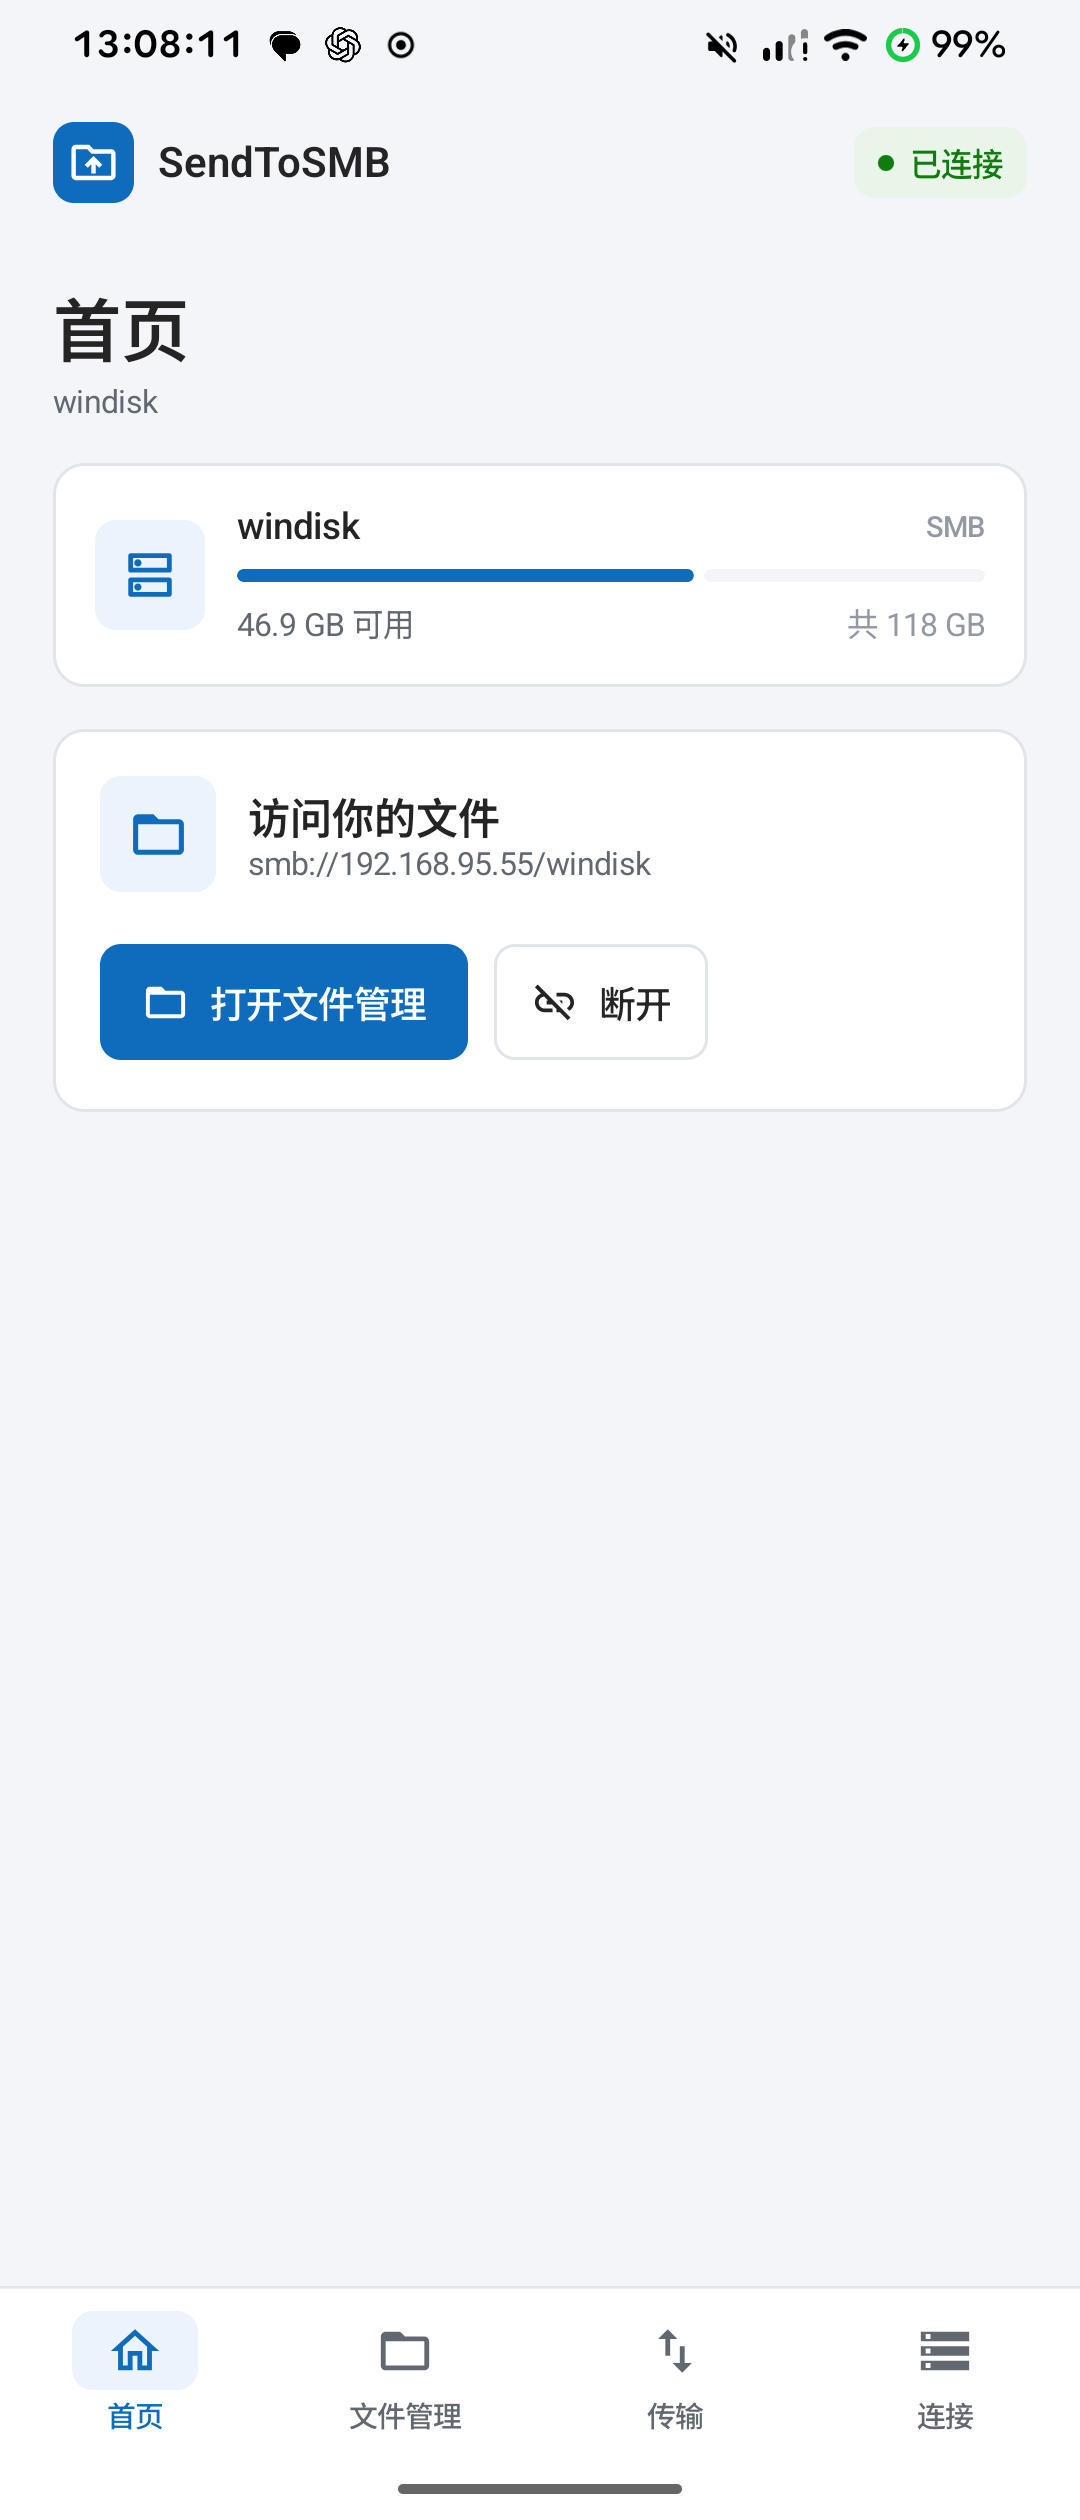
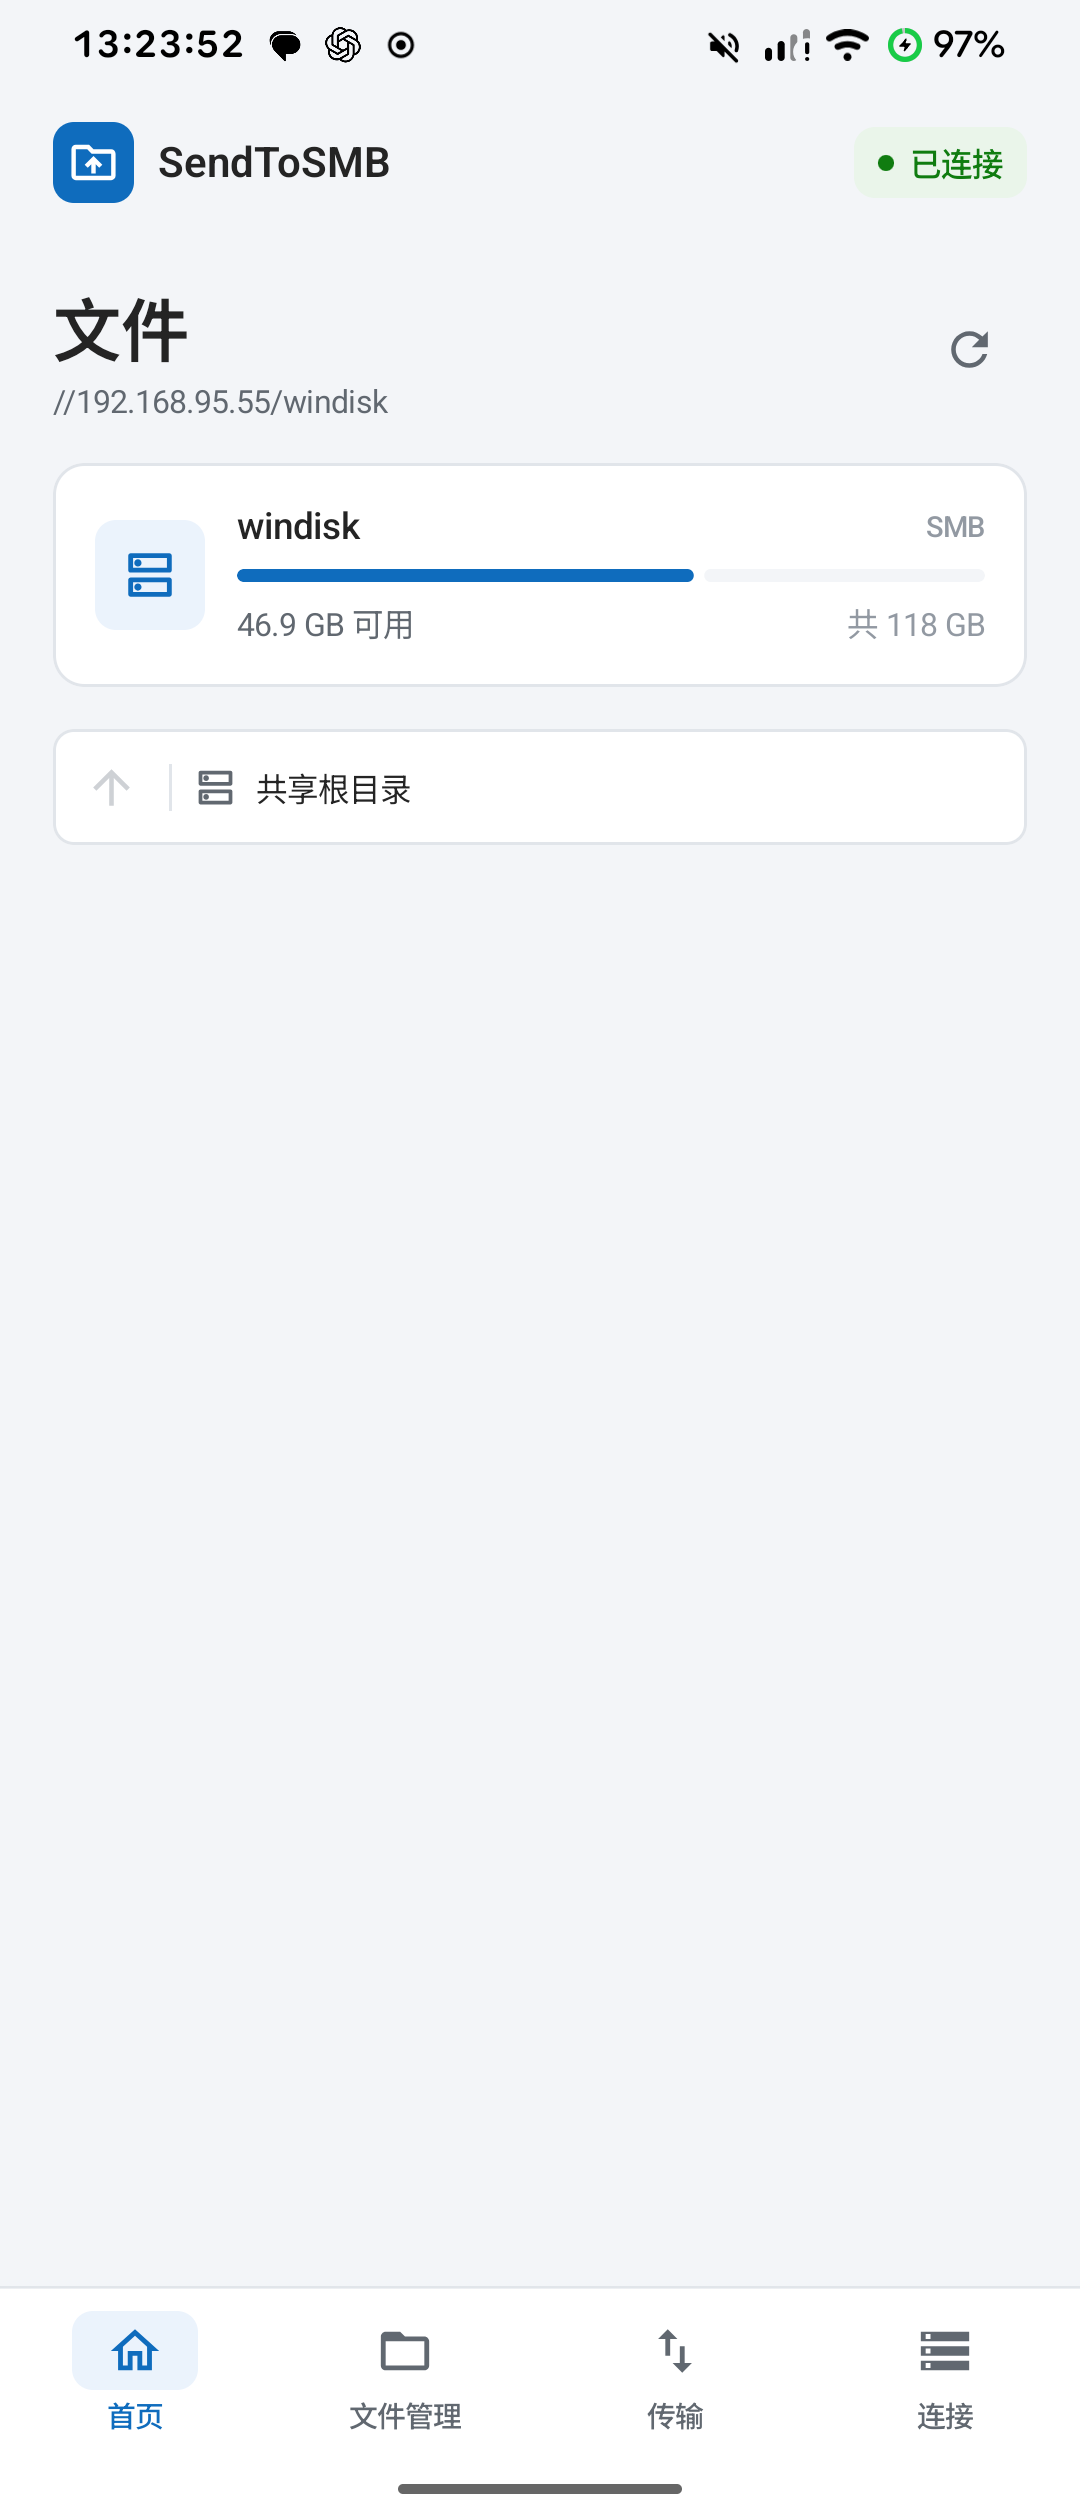
fix: separate file list from home overview

diff --git a/app/src/main/java/com/zlight/sendtosmb/ui/HomePage.kt b/app/src/main/java/com/zlight/sendtosmb/ui/HomePage.kt
@@ -4,7 +4,6 @@ import androidx.compose.foundation.BorderStroke
 import androidx.compose.foundation.background
 import androidx.compose.foundation.layout.*
 import androidx.compose.foundation.lazy.LazyColumn
-import androidx.compose.foundation.lazy.items
 import androidx.compose.material.icons.Icons
 import androidx.compose.material.icons.outlined.*
 import androidx.compose.material3.*
@@ -13,6 +12,7 @@ import androidx.compose.ui.Alignment
 import androidx.compose.ui.Modifier
 import androidx.compose.ui.draw.clip
 import androidx.compose.ui.graphics.Color
+import androidx.compose.ui.graphics.vector.ImageVector
 import androidx.compose.ui.text.style.TextAlign
 import androidx.compose.ui.text.style.TextOverflow
 import androidx.compose.ui.unit.dp
@@ -26,14 +26,19 @@ internal fun HomePage(
     onOpenFiles: () -> Unit,
 ) {
     val profile = state.profiles.firstOrNull { it.id == state.currentProfileId }
-    val recent = state.transfers.filterNot { it.status == "running" || it.status == "queued" }
-        .sortedByDescending { it.createdMillis }.take(3)
     LazyColumn(
         Modifier.fillMaxSize(),
         contentPadding = PaddingValues(horizontal = if (wide) 28.dp else 20.dp, vertical = 16.dp),
         verticalArrangement = Arrangement.spacedBy(16.dp),
     ) {
-        item { PageHeading("首页", if (state.connected) profile?.name ?: "共享文件夹" else "你的文件，在每一台设备之间") }
+        item {
+            PageHeading(
+                "文件",
+                if (state.connected) profile?.url?.removePrefix("smb:") ?: "共享文件夹" else "你的文件，在每一台设备之间",
+            ) {
+                if (state.connected) ToolIcon(Icons.Outlined.Refresh, "刷新共享信息", enabled = !state.loading) { onAction(UiAction.Refresh) }
+            }
+        }
         if (!state.connected) {
             item {
                 FluentCard(Modifier.fillMaxWidth()) {
@@ -80,41 +85,32 @@ internal fun HomePage(
                     }
                 }
             }
+            item { CapacityCard(null, "网络存储空间", false, Modifier.fillMaxWidth()) }
+            item {
+                Row(Modifier.fillMaxWidth().padding(horizontal = 4.dp, vertical = 8.dp), horizontalArrangement = Arrangement.SpaceBetween) {
+                    IntroFeature(Icons.Outlined.Lock, "本机加密凭据")
+                    IntroFeature(Icons.Outlined.SwapVert, "双向文件传输")
+                    IntroFeature(Icons.Outlined.Devices, "手机与平板")
+                }
+            }
         } else {
             item { CapacityCard(state.capacity, profile?.name ?: "网络存储", true, Modifier.fillMaxWidth()) }
             item {
-                FluentCard(Modifier.fillMaxWidth()) {
-                    Column(Modifier.fillMaxWidth().padding(18.dp)) {
-                        Row(verticalAlignment = Alignment.CenterVertically) {
-                            AccentIcon(Icons.Outlined.FolderOpen, 44)
-                            Spacer(Modifier.width(12.dp))
-                            Column(Modifier.weight(1f)) {
-                                Text("访问你的文件", style = MaterialTheme.typography.titleMedium)
-                                Text(profile?.url.orEmpty(), style = MaterialTheme.typography.bodySmall, color = Fluent.Secondary, maxLines = 2, overflow = TextOverflow.Ellipsis)
-                            }
-                        }
-                        Spacer(Modifier.height(18.dp))
-                        Row(horizontalArrangement = Arrangement.spacedBy(10.dp)) {
-                            PrimaryButton("打开文件管理", Icons.Outlined.FolderOpen, onClick = onOpenFiles)
-                            SecondaryButton("断开", Icons.Outlined.LinkOff) { onAction(UiAction.Disconnect) }
-                        }
-                    }
-                }
-            }
-        }
-        if (recent.isNotEmpty()) {
-            item { Text("最近传输", style = MaterialTheme.typography.titleSmall, color = Fluent.Secondary) }
-            items(recent, key = { it.id }) { transfer ->
-                FluentCard(Modifier.fillMaxWidth()) {
-                    Row(Modifier.fillMaxWidth().padding(14.dp), verticalAlignment = Alignment.CenterVertically) {
-                        Icon(if (transfer.direction == "upload") Icons.Outlined.Upload else Icons.Outlined.Download, null, Modifier.size(21.dp), tint = if (transfer.status == "completed") Fluent.Green else Fluent.Secondary)
-                        Spacer(Modifier.width(11.dp))
-                        Text(transfer.name, Modifier.weight(1f), style = MaterialTheme.typography.bodyMedium, maxLines = 1, overflow = TextOverflow.Ellipsis)
-                        Text(if (transfer.status == "completed") "已完成" else if (transfer.status == "failed") "失败" else "已取消", style = MaterialTheme.typography.bodySmall, color = Fluent.Muted)
-                    }
+                Breadcrumbs(state.path, "共享根目录") { action ->
+                    onAction(action)
+                    onOpenFiles()
                 }
             }
         }
         item { Spacer(Modifier.height(4.dp)) }
+    }
+}
+
+@Composable
+private fun IntroFeature(icon: ImageVector, title: String) {
+    Column(horizontalAlignment = Alignment.CenterHorizontally) {
+        Icon(icon, null, Modifier.size(20.dp), tint = Fluent.Secondary)
+        Spacer(Modifier.height(7.dp))
+        Text(title, style = MaterialTheme.typography.labelSmall, color = Fluent.Secondary)
     }
 }

diff --git a/app/src/main/java/com/zlight/sendtosmb/ui/ExplorerPage.kt b/app/src/main/java/com/zlight/sendtosmb/ui/ExplorerPage.kt
@@ -69,25 +69,21 @@ internal fun ExplorerPage(state: UiState, wide: Boolean, onAction: (UiAction) ->
     }
 
     Column(Modifier.fillMaxSize().padding(horizontal = if (wide) 28.dp else 20.dp)) {
-        if (!keyboardVisible) {
+        if (!state.connected && !keyboardVisible) {
             Spacer(Modifier.height(16.dp))
-            PageHeading("文件管理", if (state.connected) currentProfile?.name ?: "共享文件夹" else "连接后管理共享文件") {
-                if (state.connected) ToolIcon(Icons.Outlined.Refresh, "刷新文件夹", enabled = !state.loading) { onAction(UiAction.Refresh) }
-            }
+            PageHeading("文件管理", "连接后管理共享文件")
             Spacer(Modifier.height(18.dp))
         }
         if (!state.connected) {
             FileManagerDisconnected(state, onAction, onConnect)
         } else {
-            if (!keyboardVisible && wide) {
-                Row(Modifier.fillMaxWidth(), horizontalArrangement = Arrangement.spacedBy(16.dp), verticalAlignment = Alignment.CenterVertically) {
-                    Box(Modifier.weight(1f)) { Breadcrumbs(state.path, currentProfile?.name ?: "共享根目录", onAction) }
-                    CapacityCard(state.capacity, currentProfile?.name ?: "网络存储", true, Modifier.width(330.dp))
-                }
-            } else if (!keyboardVisible) {
-                CapacityCard(state.capacity, currentProfile?.name ?: "网络存储", true, Modifier.fillMaxWidth())
+            if (!keyboardVisible) {
                 Spacer(Modifier.height(12.dp))
-                Breadcrumbs(state.path, "共享根目录", onAction)
+                Row(Modifier.fillMaxWidth(), verticalAlignment = Alignment.CenterVertically) {
+                    Box(Modifier.weight(1f)) { Breadcrumbs(state.path, currentProfile?.name ?: "共享根目录", onAction) }
+                    Spacer(Modifier.width(6.dp))
+                    ToolIcon(Icons.Outlined.Refresh, "刷新文件夹", enabled = !state.loading) { onAction(UiAction.Refresh) }
+                }
             }
             Spacer(Modifier.height(12.dp))
             OutlinedTextField(search, { search = it }, Modifier.fillMaxWidth().heightIn(min = 48.dp),
@@ -194,7 +190,7 @@ private fun FileManagerDisconnected(state: UiState, onAction: (UiAction) -> Unit
 }
 
 @Composable
-private fun Breadcrumbs(path: String, rootName: String, onAction: (UiAction) -> Unit) {
+internal fun Breadcrumbs(path: String, rootName: String, onAction: (UiAction) -> Unit) {
     val segments = path.trim('/').split('/').filter { it.isNotBlank() }
     Surface(shape = Fluent.Control, color = Color.White, border = BorderStroke(1.dp, Fluent.Border)) {
         Row(Modifier.fillMaxWidth().height(44.dp), verticalAlignment = Alignment.CenterVertically) {

diff --git a/app/src/androidTest/java/com/zlight/sendtosmb/ExplorerUiTest.kt b/app/src/androidTest/java/com/zlight/sendtosmb/ExplorerUiTest.kt
@@ -59,8 +59,9 @@ class ExplorerUiTest {
         compose.setContent { SendToSmbApp(UiState(profiles = listOf(profile), currentProfileId = profile.id,
             connected = true, transfers = listOf(history)), actions::add) }
 
-        compose.onNodeWithText("打开文件管理").assertIsDisplayed()
-        compose.onNodeWithText("打开文件管理").performClick()
+        compose.onNodeWithText("文件").assertIsDisplayed()
+        compose.onNodeWithText("//127.0.0.1:1445/TESTSHARE").assertIsDisplayed()
+        compose.onNodeWithText("文件管理").performClick()
         compose.onNodeWithText("搜索文件或文件夹").assertIsDisplayed()
         compose.onNodeWithText("传输").performClick()
         compose.onNodeWithText("传输记录默认保存在本机").assertIsDisplayed()

diff --git a/releases/README.md b/releases/README.md
@@ -1,7 +1,7 @@
-# 1.1.0 调试安装包
+# 1.1.1 调试安装包
 
-`SendToSMB-1.1.0-debug.apk` 是 2026-09-09 在 Redmi Android 16 测试机验证并安装的 Debug 构建，最低 Android 8.0。
+`SendToSMB-1.1.1-debug.apk` 是 2026-09-09 在 Redmi Android 16 测试机验证并安装的 Debug 构建，最低 Android 8.0。
 
-1.1.0 将首页和文件管理拆成独立栏目，增加文件搜索、加密持久传输历史和再次下载，并在临时权限拒绝或会话过期时重建只读连接。连接步骤调整为“在同一局域网”“发起连接并保存凭据”“访问你的文件”。文件传输、生命周期、真实共享只读与界面测试结果见 `docs/TESTING.md`。
+1.1.1 保留原首页的 SMB 地址、容量和当前位置，仅将搜索、操作栏及文件列表移入独立“文件管理”栏目；同时增加加密持久传输历史和再次下载，并在临时权限拒绝或会话过期时重建只读连接。连接步骤调整为“在同一局域网”“发起连接并保存凭据”“访问你的文件”。文件传输、生命周期、真实共享只读与界面测试结果见 `docs/TESTING.md`。
 
 安装包使用本机 Android 调试签名，适合此次测试和本机安装，正式发行需另配发布签名。APK 不提交 Git，校验值见 `SHA256SUMS.txt`。

diff --git a/releases/1.1.1.md b/releases/1.1.1.md
@@ -1,0 +1,11 @@
+# SendToSMB 1.1.1
+
+- 首页恢复原有文件概览，只显示 SMB 地址、容量和当前位置，不显示搜索、操作栏或文件列表。
+- 底部“文件管理”成为独立页面，集中显示路径导航、搜索框、文件操作栏和文件列表。
+- 传输记录默认加密保存在本机，下载记录支持再次下载，并可切回原连接。
+- 目录读取遇到失效会话或临时权限拒绝时自动重连一次；下载在服务器拒绝读取属性时使用最小读取权限。
+- 首页引导卡移除说明性文字；连接步骤改为“在同一局域网”“发起连接并保存凭据”“访问你的文件”。
+
+APK 为已在 Redmi Android 16 测试机安装验证的 Debug 签名构建，最低支持 Android 8.0。
+
[1 lines of base64/hex data omitted]

diff --git a/README.md b/README.md
@@ -43,7 +43,7 @@ adb install -r app\build\outputs\apk\debug\app-debug.apk
 
 调试 APK 位于 `app/build/outputs/apk/debug/app-debug.apk`。正式发布需由所有者配置自己的发布签名；密码、密钥、SDK 本地路径和测试环境不进入 Git。
 
-本次已验证安装包另外保存为 `releases/SendToSMB-1.1.0-debug.apk`，SHA-256 记录在 `releases/SHA256SUMS.txt`。APK 本体不纳入 Git，并作为 GitHub Release 附件发布。
+本次已验证安装包另外保存为 `releases/SendToSMB-1.1.1-debug.apk`，SHA-256 记录在 `releases/SHA256SUMS.txt`。APK 本体不纳入 Git，并作为 GitHub Release 附件发布。
 
 ## 实现与边界
 
